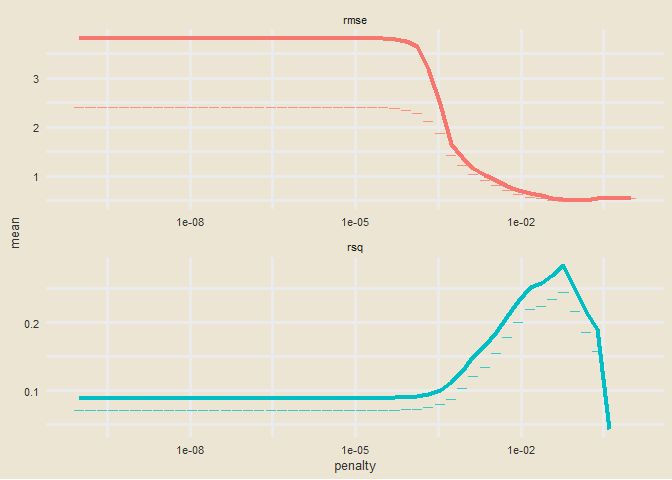
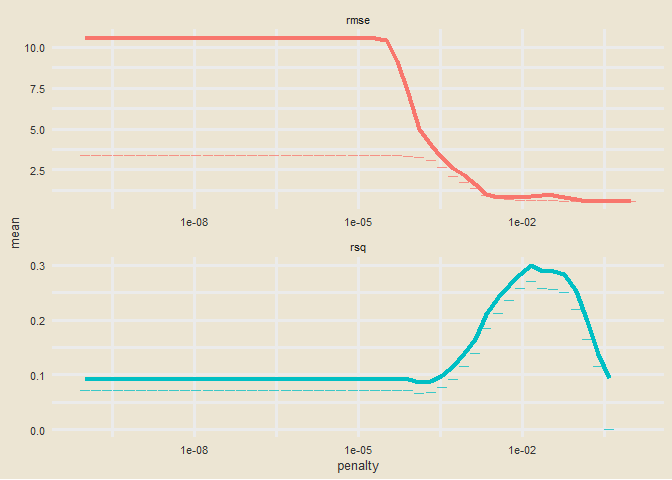
reknit following more prose. also include bigrams in TF-IDF analysis

diff --git a/avatar_20200811/avatar_analysis.md b/avatar_20200811/avatar_analysis.md
@@ -268,9 +268,10 @@ character_words %>%
 
 ### TF-IDF Analysis
 
-TF-IDF (term frequency-inverse document frequency) is one of the most
-popular term-weighing schemes used in text mining today. Briefly, it is
-a statistical measure of how import a term is in a document (i.e. the
+[TF-IDF](https://en.wikipedia.org/wiki/Tf%E2%80%93idf) (term
+frequency-inverse document frequency) is one of the most popular
+term-weighing schemes used in text mining today. Briefly, it is a
+statistical measure of how import a term is in a document (i.e. the
 lines of a character in a TV show) relatve to the entire corpus
 (i.e. the entire script of that TV show) the document resides in. The
 ‘inverse document frequency’ aspect of the measure helps to devalue
@@ -286,6 +287,10 @@ value can be considered “signature” phrases for that character.
 blacklist <- c("hey", "yeah", "guys", "gonna")
 
 #reshape the dataframe for TF-IDF analysis
+## tokens
+token_blacklist <- c("yip", "gran", "dai", "li", "ty", "lee", "kai", "agni",
+                     "father", "raiders", "twinkle", "toes")
+
 script_words <- avatar %>%
   add_count(character) %>% #add a column adding all lines per character
   filter(n >= 50) %>% #filter out any characters who have too few lines
@@ -294,15 +299,49 @@ script_words <- avatar %>%
          character != "Scene Description") %>% #filter misleading lines
   unnest_tokens(word, character_words) %>% #separate each line into individual tokens (words)
   anti_join(stop_words, by = "word") %>% #remove stopwords
-  filter(!(word %in% blacklist)) #remove extra stopwords
+  filter(!(word %in% blacklist),
+         !(word %in% token_blacklist)) #remove extra stopwords
+
+##bigrams
+bigram_blacklist <- c("the dai", "aang i", "uncle i")
+
+script_bigrams <- avatar %>%
+  add_count(character) %>% #add a column adding all lines per character
+  filter(n >= 50) %>% #filter out any characters who have too few lines
+  select(-full_text) %>% #trim duplicate less-tidy column for script
+  filter(!(grepl(c(intro1,intro2), character_words)),
+         character != "Scene Description") %>% #filter misleading lines
+  unnest_tokens(word, character_words, token = "ngrams", n = 2) %>% #separate each line into BIGRAMS
+  anti_join(stop_words, by = "word") %>% #remove stopwords
+  filter(!(word %in% blacklist),
+         !(word %in% bigram_blacklist)) #remove extra stopwords
 
 character_tf_idf <- script_words %>%
+  rbind(script_bigrams) %>%
   add_count(word) %>% #add count for how often each word appears
   filter(n >= 5) %>% #filter out words that occur infrequently
   count(word, character) %>% #create a column counting each token by character
   bind_tf_idf(word, character, n) %>% #create TF-IDF scores
   arrange(desc(tf_idf)) #rearrange rows
 ```
+
+The following graph displays the top 10 terms for each of the main
+characters of ATLA, where the color of the bars is used to denote the
+characters nationality. As with most TF-IDF analysis for a TV show, a
+lot of each characters top terms are simply the name of another
+character. There are some interesting terms which fall into this
+category, which at first glance would not appear to. For example,
+Azula’s top term is “Zuzu”, which is actually a childhood pet name for
+her brother Zuko, which she frequently uses throughout the show in a
+condescending way. Similarly, two of Toph’s top terms are “Twinkle” and
+“Toes”, both of which seem like very odd terms in a vacuum. This is
+where allowing for bigrams would have come in handy, as the two terms
+are nearly always used in tandem as a personal nickname for Aang. Here
+the terms have noticeably different TF-IDF scores (0.023 vs 0.017)
+likely because other characters in the show use the term “toes”. Another
+interesting anomaly which would have been solved by allowing for bigrams
+is that many of the words that made the Top 10 cut are either part of a
+two
 
 ``` r
 character_tf_idf %>%
@@ -331,14 +370,13 @@ character_tf_idf %>%
   facet_wrap(~ character, scales = "free_y", ncol = 4) + 
   labs(
     title = "Avatar: the Last Airbender - TF-IDF Character Analysis",
-    subtitle = "What are the signature words for each character?",
+    subtitle = "What are the signature terms for each character?",
     x = "",
     y = "TF-IDF of character-word pairs"
   ) + 
   theme_avatar(title.font = "Herculanum",
                text.font = "Herculanum") + 
   theme(
-    #axis.text.x = element_text(angle = 45, hjust = 1),
     panel.grid = element_blank(),
     axis.text.x = element_blank()
   )
@@ -570,20 +608,20 @@ lasso_fit %>%
   tidy()
 ```
 
-    ## # A tibble: 2,546 x 5
+    ## # A tibble: 1,733 x 5
     ##    term         step estimate lambda dev.ratio
     ##    <chr>       <dbl>    <dbl>  <dbl>     <dbl>
-    ##  1 (Intercept)     1   8.75    0.280    0     
-    ##  2 (Intercept)     2   8.75    0.256    0.0472
-    ##  3 katara          2  -0.0252  0.256    0.0472
-    ##  4 (Intercept)     3   8.75    0.233    0.0863
-    ##  5 katara          3  -0.0481  0.233    0.0863
-    ##  6 (Intercept)     4   8.75    0.212    0.119 
-    ##  7 katara          4  -0.0690  0.212    0.119 
-    ##  8 (Intercept)     5   8.75    0.193    0.146 
-    ##  9 katara          5  -0.0880  0.193    0.146 
-    ## 10 (Intercept)     6   8.75    0.176    0.184 
-    ## # ... with 2,536 more rows
+    ##  1 (Intercept)     1  8.72     0.283    0     
+    ##  2 (Intercept)     2  8.72     0.258    0.0392
+    ##  3 katara          2 -0.0254   0.258    0.0392
+    ##  4 (Intercept)     3  8.72     0.235    0.0717
+    ##  5 katara          3 -0.0485   0.235    0.0717
+    ##  6 (Intercept)     4  8.72     0.214    0.0987
+    ##  7 katara          4 -0.0696   0.214    0.0987
+    ##  8 (Intercept)     5  8.72     0.195    0.123 
+    ##  9 katara          5 -0.0888   0.195    0.123 
+    ## 10 yue             5  0.00214  0.195    0.123 
+    ## # ... with 1,723 more rows
 
 tune the lasso model
 
@@ -624,18 +662,18 @@ lasso_grid %>%
 ```
 
     ## # A tibble: 100 x 6
-    ##     penalty .metric .estimator   mean     n std_err
-    ##       <dbl> <chr>   <chr>       <dbl> <int>   <dbl>
-    ##  1 1.00e-10 rmse    standard   3.82      25  1.41  
-    ##  2 1.00e-10 rsq     standard   0.0893    25  0.0177
-    ##  3 1.60e-10 rmse    standard   3.82      25  1.41  
-    ##  4 1.60e-10 rsq     standard   0.0893    25  0.0177
-    ##  5 2.56e-10 rmse    standard   3.82      25  1.41  
-    ##  6 2.56e-10 rsq     standard   0.0893    25  0.0177
-    ##  7 4.09e-10 rmse    standard   3.82      25  1.41  
-    ##  8 4.09e-10 rsq     standard   0.0893    25  0.0177
-    ##  9 6.55e-10 rmse    standard   3.82      25  1.41  
-    ## 10 6.55e-10 rsq     standard   0.0893    25  0.0177
+    ##     penalty .metric .estimator    mean     n std_err
+    ##       <dbl> <chr>   <chr>        <dbl> <int>   <dbl>
+    ##  1 1.00e-10 rmse    standard   10.6       25  7.19  
+    ##  2 1.00e-10 rsq     standard    0.0916    25  0.0203
+    ##  3 1.60e-10 rmse    standard   10.6       25  7.19  
+    ##  4 1.60e-10 rsq     standard    0.0916    25  0.0203
+    ##  5 2.56e-10 rmse    standard   10.6       25  7.19  
+    ##  6 2.56e-10 rsq     standard    0.0916    25  0.0203
+    ##  7 4.09e-10 rmse    standard   10.6       25  7.19  
+    ##  8 4.09e-10 rsq     standard    0.0916    25  0.0203
+    ##  9 6.55e-10 rmse    standard   10.6       25  7.19  
+    ## 10 6.55e-10 rsq     standard    0.0916    25  0.0203
     ## # ... with 90 more rows
 
 Visualize the results
@@ -657,7 +695,7 @@ lasso_grid %>%
   theme(legend.position = "none")
 ```
 
-    ## Warning: Removed 3 rows containing missing values (geom_errorbar).
+    ## Warning: Removed 2 rows containing missing values (geom_errorbar).
 
     ## Warning: Removed 2 rows containing missing values (geom_path).
 
@@ -722,5 +760,5 @@ last_fit(
     ## # A tibble: 2 x 3
     ##   .metric .estimator .estimate
     ##   <chr>   <chr>          <dbl>
-    ## 1 rmse    standard       0.619
-    ## 2 rsq     standard       0.631
+    ## 1 rmse    standard       0.458
+    ## 2 rsq     standard       0.571
